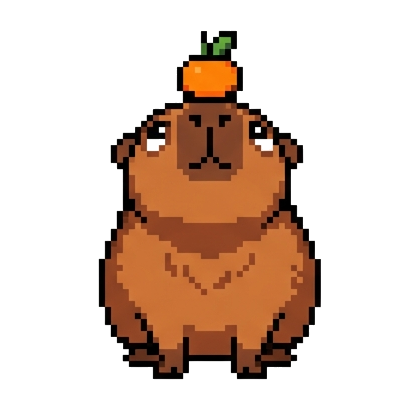
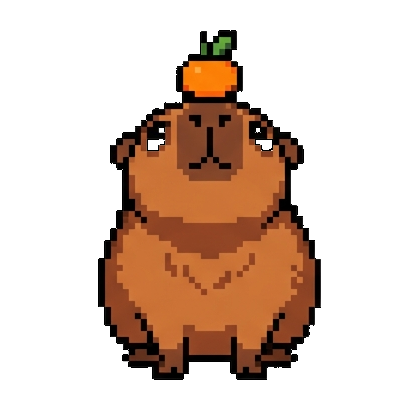
v2.10: 修朝向四帧白边——贴边白色连通块改为素材统一黑描边

diff --git a/README.md b/README.md
@@ -1,6 +1,6 @@
 ---
 title: kapybara-buddy 使用说明
-version: v2.9
+version: v2.10
 author: 胡嘉
 date: 2026-09-19
 ---
@@ -39,6 +39,7 @@ date: 2026-09-19
 | v2.7 | 2026-09-19 | 胡嘉 | 修右键双 bug：mouseup 未过滤按键致右键松开误触 endDrag（轻点看似无响应、按压松开回旧帧）；右键入口改 mousedown(button=2)，contextmenu 只屏蔽菜单 |
 | v2.8 | 2026-09-19 | 胡嘉 | 右键池补欢呼+捧爱心（原本只有事件动画可见）；weightedPick 支持自定义池，30 次连点全 11 种动作轮到 |
 | v2.9 | 2026-09-19 | 胡嘉 | 更名 gemini-buddy → kapybara-buddy：文件夹/README/启动脚本/日志名(~/.kapybara-buddy.log)/调试环境变量前缀 GB_→KB_；start.sh pkill 模式同步新路径；模型名 gemini-3.8-flash-low 为 agy 参数保留 |
+| v2.10 | 2026-09-19 | 胡嘉 | 修白边：朝向四帧（idle_front/look_left/look_right/look_up）贴边白描边 ~950px/帧 → 改为素材统一的黑描边；贴边白点复检归零、与无瑕疵帧结构一致 |
 
 ## 链接
 - 无
